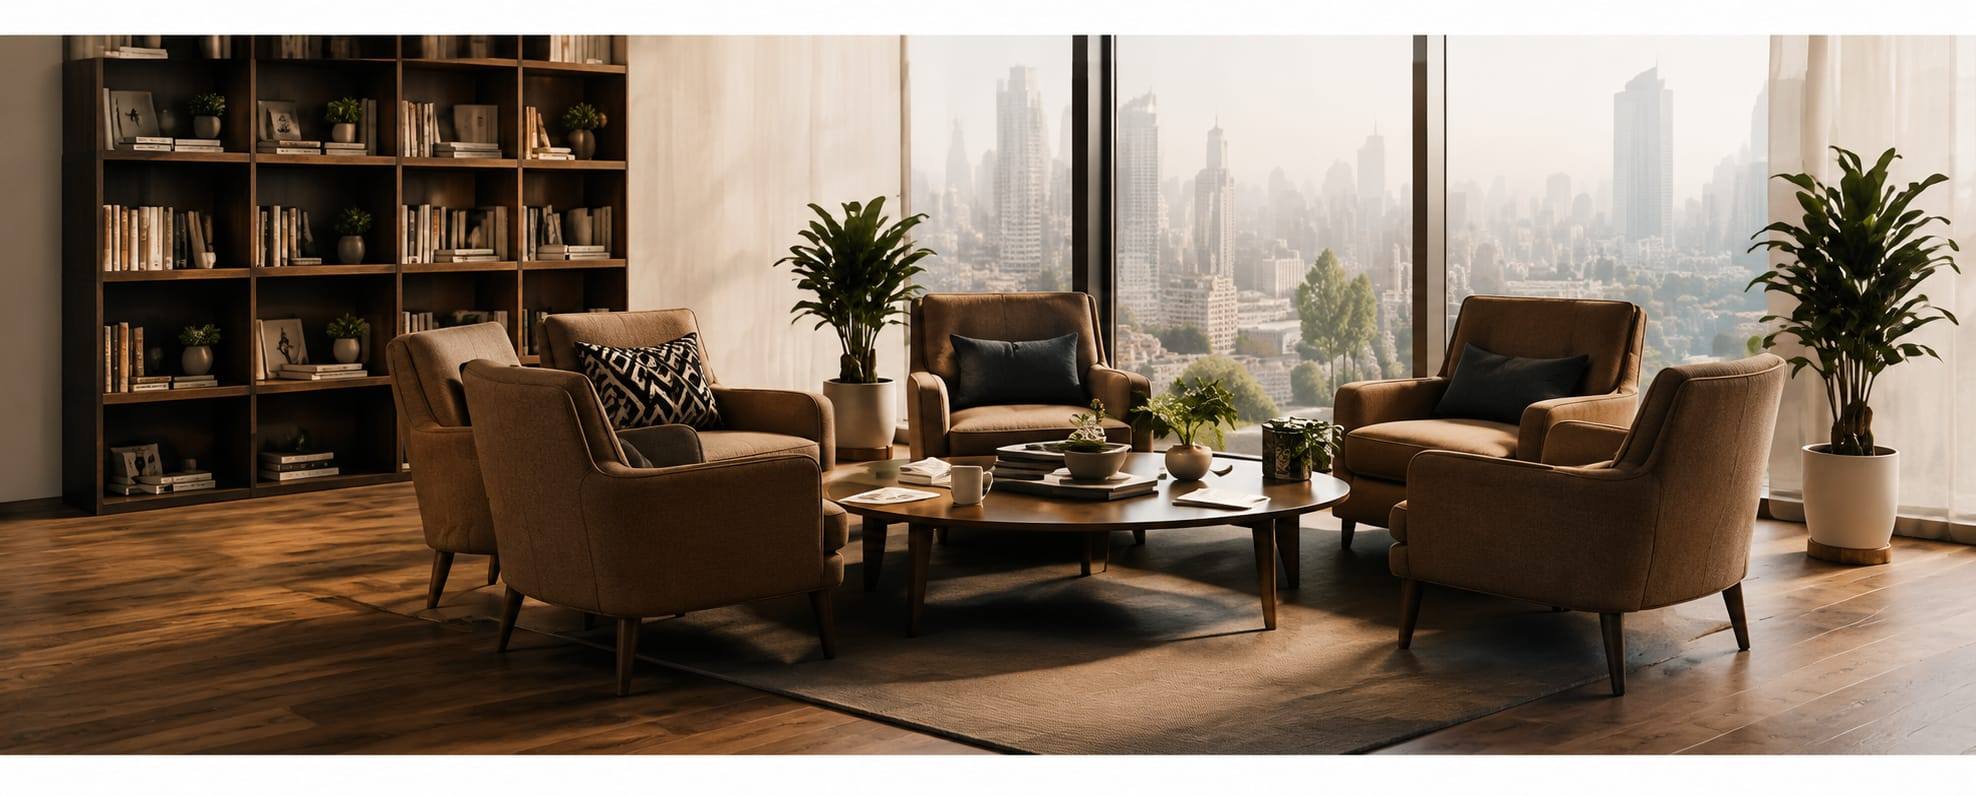
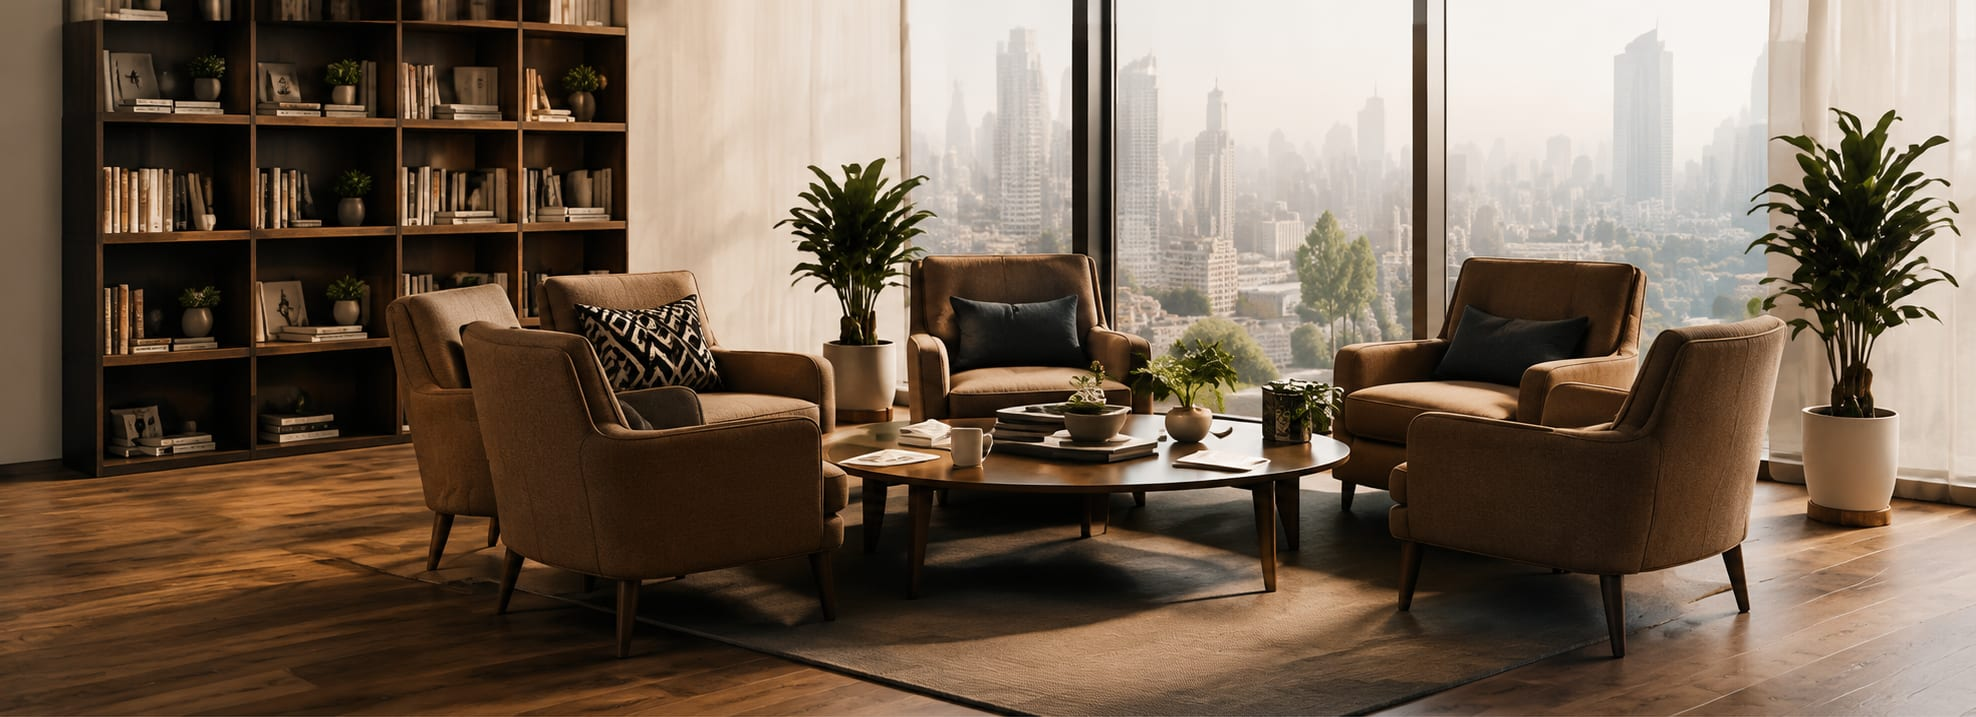
Hero full-bleed background photo, Final CTA exact-ratio lounge photo, orbit photo swap, challenges panel fixed height+scroll

diff --git a/src/components/home/Hero.tsx b/src/components/home/Hero.tsx
@@ -40,50 +40,16 @@ export function Hero() {
   };
 
   return (
-    <section className="overflow-hidden pt-12 pb-16 md:pt-16 md:pb-20 lg:pb-24">
+    <section className="relative overflow-hidden lg:min-h-[640px]">
       {/*
-        Not wrapped in the standard <Container> — the photo intentionally
-        breaks out of the normal content padding on its right edge and
-        bleeds to the outer 1440px boundary with no border/shadow/rounding
-        on that side, so it reads as part of the page rather than a
-        separate framed card (per locked reference).
+        Flex column so `order` can put the photo visually after the text on
+        mobile (a plain stacked block) while staying first in the DOM — at
+        lg+ the photo becomes an absolutely positioned section background,
+        where DOM order instead controls paint order (photo behind, text on
+        top). Fades in from its own left edge so the blend sits in the
+        visual middle of the section rather than reading as a framed card.
       */}
-      <div className="mx-auto grid max-w-[1440px] grid-cols-1 items-center gap-12 lg:grid-cols-[minmax(0,1fr)_minmax(0,1.05fr)] lg:gap-0">
-        <motion.div
-          variants={container}
-          initial="hidden"
-          animate="show"
-          className="px-6 md:px-12 lg:pl-[72px] lg:pr-12"
-        >
-          <motion.p variants={item} className="eyebrow text-gold">
-            PRIVATE LEARNING PROGRAMS
-          </motion.p>
-          <motion.h1 variants={item} className="mt-4 text-[clamp(52px,5.6vw,84px)] leading-[0.96] text-ink">
-            Where Exceptional Students Become <span className="text-gold">Extraordinary Thinkers.</span>
-          </motion.h1>
-          <motion.p variants={item} className="mt-6 max-w-xl text-lg leading-[1.7] text-ink-soft">
-            Infimind partners with ambitious families to build strong academic foundations, cultivate intellectual
-            confidence, and prepare students for success in school and beyond.
-          </motion.p>
-          <motion.div variants={item} className="mt-9 flex flex-wrap items-center gap-4">
-            <button
-              type="button"
-              onClick={openConsultation}
-              className="inline-flex min-h-[44px] items-center justify-center gap-2 rounded-btn bg-navy px-6 py-3.5 text-sm font-medium text-on-dark shadow-soft transition-shadow hover:shadow-hover"
-            >
-              Schedule a Private Consultation
-              <ArrowRight size={16} aria-hidden="true" />
-            </button>
-            <a
-              href="#programs"
-              className="inline-flex min-h-[44px] items-center justify-center gap-2 rounded-btn border border-border-strong px-6 py-3.5 text-sm font-medium text-ink transition-colors hover:border-navy"
-            >
-              Explore Programs
-              <ArrowRight size={16} aria-hidden="true" />
-            </a>
-          </motion.div>
-        </motion.div>
-
+      <div className="flex flex-col lg:block">
         <motion.div
           ref={figureRef}
           onPointerMove={handlePointerMove}
@@ -91,13 +57,13 @@ export function Hero() {
           initial={{ opacity: 0, scale: reduceMotion ? 1 : 0.97 }}
           animate={{ opacity: 1, scale: 1 }}
           transition={{ duration: 0.7, ease: EASE_OUT, delay: 0.15 }}
-          className="overflow-hidden lg:rounded-l-[18px]"
+          className="order-2 mt-10 aspect-[16/9] w-full px-6 sm:px-0 lg:absolute lg:inset-y-0 lg:right-0 lg:left-[32%] lg:order-none lg:m-0 lg:aspect-auto lg:w-auto lg:px-0"
           style={{
-            maskImage: 'linear-gradient(to right, transparent 0%, black 12%)',
-            WebkitMaskImage: 'linear-gradient(to right, transparent 0%, black 12%)',
+            maskImage: 'linear-gradient(to right, transparent 0%, black 22%)',
+            WebkitMaskImage: 'linear-gradient(to right, transparent 0%, black 22%)',
           }}
         >
-          <motion.div style={{ x: translateX, y: translateY }} className="aspect-[16/10] w-full lg:aspect-auto lg:h-full">
+          <motion.div style={{ x: translateX, y: translateY }} className="h-full w-full">
             <Photo
               filename="hero-student-study.jpg"
               alt="A student studying at a desk in natural daylight, surrounded by books"
@@ -106,6 +72,43 @@ export function Hero() {
             />
           </motion.div>
         </motion.div>
+
+        <div className="relative order-1 mx-auto w-full max-w-[1440px] pt-12 pb-16 md:pt-16 md:pb-20 lg:order-none lg:py-24">
+          <motion.div
+            variants={container}
+            initial="hidden"
+            animate="show"
+            className="max-w-xl px-6 md:px-12 lg:pl-[72px]"
+          >
+            <motion.p variants={item} className="eyebrow text-gold">
+              PRIVATE LEARNING PROGRAMS
+            </motion.p>
+            <motion.h1 variants={item} className="mt-4 text-[clamp(52px,5.6vw,84px)] leading-[0.96] text-ink">
+              Where Exceptional Students Become <span className="text-gold">Extraordinary Thinkers.</span>
+            </motion.h1>
+            <motion.p variants={item} className="mt-6 text-lg leading-[1.7] text-ink-soft">
+              Infimind partners with ambitious families to build strong academic foundations, cultivate intellectual
+              confidence, and prepare students for success in school and beyond.
+            </motion.p>
+            <motion.div variants={item} className="mt-9 flex flex-wrap items-center gap-4">
+              <button
+                type="button"
+                onClick={openConsultation}
+                className="inline-flex min-h-[44px] items-center justify-center gap-2 rounded-btn bg-navy px-6 py-3.5 text-sm font-medium text-on-dark shadow-soft transition-shadow hover:shadow-hover"
+              >
+                Schedule a Private Consultation
+                <ArrowRight size={16} aria-hidden="true" />
+              </button>
+              <a
+                href="#programs"
+                className="inline-flex min-h-[44px] items-center justify-center gap-2 rounded-btn border border-border-strong bg-paper/80 px-6 py-3.5 text-sm font-medium text-ink backdrop-blur-sm transition-colors hover:border-navy"
+              >
+                Explore Programs
+                <ArrowRight size={16} aria-hidden="true" />
+              </a>
+            </motion.div>
+          </motion.div>
+        </div>
       </div>
     </section>
   );

diff --git a/src/components/home/challenges/ChallengePanel.tsx b/src/components/home/challenges/ChallengePanel.tsx
@@ -21,23 +21,25 @@ export function ChallengePanel({ challenge }: ChallengePanelProps) {
       initial={reduceMotion ? { opacity: 0 } : { opacity: 0, x: 12 }}
       animate={{ opacity: 1, x: 0 }}
       transition={{ duration: 0.3, ease: 'easeOut' }}
-      className="overflow-hidden rounded-container border border-border bg-paper-pure"
+      // 440px matches ChallengeTabList's max-h so the two columns line up,
+      // and neither the panel nor the sidebar grows unbounded.
+      className="overflow-hidden rounded-container border border-border bg-paper-pure lg:h-[440px]"
     >
       {!hasContent ? (
-        <div className="flex min-h-[260px] flex-col items-center justify-center gap-2 p-8 text-center">
+        <div className="flex h-full min-h-[260px] flex-col items-center justify-center gap-2 p-8 text-center">
           <p className="font-display text-2xl text-ink">{challenge.label}</p>
           <p className="max-w-sm text-sm text-ink-muted">
             Content for this challenge is in progress and will be added soon.
           </p>
         </div>
       ) : (
-        <div className="grid grid-cols-1 divide-y divide-border lg:grid-cols-3 lg:divide-x lg:divide-y-0">
-          <div className="flex flex-col p-5 sm:p-6">
+        <div className="grid grid-cols-1 divide-y divide-border lg:h-full lg:grid-cols-3 lg:divide-x lg:divide-y-0">
+          <div className="flex flex-col overflow-y-auto p-5 sm:p-6">
             <p className="eyebrow text-ink-muted">The Challenge</p>
             <h3 className="mt-2.5 font-display text-xl leading-tight text-ink">{challenge.challengeTitle}</h3>
             <p className="mt-2.5 text-sm leading-relaxed text-ink-soft">{challenge.challengeDescription}</p>
             {challenge.challengeImageFilename ? (
-              <div className="mx-auto mt-5 aspect-[4/3] w-[78%] overflow-hidden rounded-lg">
+              <div className="mt-5 aspect-[4/3] w-full overflow-hidden rounded-lg">
                 <Photo
                   filename={challenge.challengeImageFilename}
                   alt={`${challenge.challengeTitle} — the challenge`}
@@ -47,7 +49,7 @@ export function ChallengePanel({ challenge }: ChallengePanelProps) {
             ) : null}
           </div>
 
-          <div className="flex flex-col bg-paper-soft/60 p-5 sm:p-6">
+          <div className="flex flex-col overflow-y-auto bg-paper-soft/60 p-5 sm:p-6">
             <p className="eyebrow text-ink-muted">Our Approach</p>
             <ul className="mt-2.5 flex flex-col gap-2.5">
               {challenge.approach.map((point) => (
@@ -62,7 +64,7 @@ export function ChallengePanel({ challenge }: ChallengePanelProps) {
             </p>
           </div>
 
-          <div className="flex flex-col p-5 sm:p-6">
+          <div className="flex flex-col overflow-y-auto p-5 sm:p-6">
             <p className="eyebrow text-ink-muted">Expected Outcome</p>
             <ul className="mt-2.5 flex flex-col gap-2.5">
               {challenge.outcomes.map((point) => (
@@ -73,7 +75,7 @@ export function ChallengePanel({ challenge }: ChallengePanelProps) {
               ))}
             </ul>
             {challenge.outcomeImageFilename ? (
-              <div className="mx-auto mt-5 aspect-[4/3] w-[78%] overflow-hidden rounded-lg">
+              <div className="mt-5 aspect-[4/3] w-full overflow-hidden rounded-lg">
                 <Photo
                   filename={challenge.outcomeImageFilename}
                   alt={`${challenge.challengeTitle} — the outcome`}

diff --git a/src/components/home/FinalCta.tsx b/src/components/home/FinalCta.tsx
@@ -3,33 +3,36 @@ import { Container } from '@/components/ui/Container';
 import { Photo } from '@/components/ui/Photo';
 import { useConsultationModal } from '@/context/ConsultationModalContext';
 
+/** Natural ratio of consultation-lounge.jpg — the photo column is sized to this exactly so it never gets cropped. */
+const LOUNGE_PHOTO_RATIO = '1976/717';
+
 export function FinalCta() {
   const { openConsultation } = useConsultationModal();
 
   return (
     <section id="consultation" className="section-spacing pt-0">
       <Container width="max">
-        <div className="grid grid-cols-1 overflow-hidden rounded-container border border-border shadow-soft lg:grid-cols-2 lg:aspect-[2.48/1]">
-          <div className="aspect-[16/9] lg:aspect-auto lg:h-full">
+        <div className="grid grid-cols-1 items-stretch overflow-hidden rounded-container border border-border shadow-soft lg:grid-cols-2">
+          <div className="w-full" style={{ aspectRatio: LOUNGE_PHOTO_RATIO }}>
             <Photo
               filename="consultation-lounge.jpg"
               alt="A calm, premium lounge setting for private consultations"
               ratioLabel="16:9"
-              className="h-full"
+              className="h-full w-full object-cover"
             />
           </div>
-          <div className="flex flex-col justify-center bg-navy px-8 py-12 sm:px-12 sm:py-16 lg:h-full">
-            <h2 className="text-[clamp(28px,2.6vw,38px)] leading-[1.12] text-on-dark">
+          <div className="flex flex-col justify-center bg-navy px-8 py-8 sm:px-10 sm:py-9 lg:px-9">
+            <h2 className="text-[clamp(20px,1.7vw,26px)] leading-[1.18] text-on-dark">
               Every Great Future Begins With the Right Guidance.
             </h2>
-            <p className="mt-4 max-w-md text-[15px] leading-relaxed text-on-dark/75">
+            <p className="mt-2.5 max-w-md text-[13px] leading-relaxed text-on-dark/75">
               Whether your child is striving for stronger school performance or preparing for the world&rsquo;s
               leading universities, every journey begins with understanding their unique potential.
             </p>
             <button
               type="button"
               onClick={openConsultation}
-              className="mt-7 inline-flex w-fit min-h-[44px] items-center justify-center gap-2 rounded-btn bg-gold px-6 py-3.5 text-sm font-medium text-navy transition-colors hover:bg-gold-dark hover:text-on-dark"
+              className="mt-4 inline-flex w-fit min-h-[40px] items-center justify-center gap-2 rounded-btn bg-gold px-5 py-2.5 text-sm font-medium text-navy transition-colors hover:bg-gold-dark hover:text-on-dark"
             >
               Schedule a Private Consultation
               <ArrowRight size={16} aria-hidden="true" />

diff --git a/src/App.smoke.test.tsx b/src/App.smoke.test.tsx
@@ -11,10 +11,10 @@ describe('App routing smoke tests', () => {
       </MemoryRouter>,
     );
     expect(
-      await screen.findByRole('heading', { name: /Extraordinary Thinkers/ }, { timeout: 5000 }),
+      await screen.findByRole('heading', { name: /Extraordinary Thinkers/ }, { timeout: 15000 }),
     ).toBeInTheDocument();
     expect(screen.getByRole('link', { name: 'Sign In' })).toBeInTheDocument();
-  });
+  }, 20000);
 
   it('renders the sign-in placeholder at /signin', async () => {
     render(

diff --git a/src/components/home/TeamOrbit.tsx b/src/components/home/TeamOrbit.tsx
@@ -25,8 +25,8 @@ export function TeamOrbit({ members }: TeamOrbitProps) {
 
       <div className="absolute inset-0 m-auto h-32 w-32 overflow-hidden rounded-full border-4 border-paper-pure shadow-hover sm:h-36 sm:w-36">
         <Photo
-          filename="personal-mentor.jpg"
-          alt="A mentor and student in conversation"
+          filename="team-orbit-center.jpg"
+          alt="A professor guiding a student"
           ratioLabel="1:1"
           className="h-full w-full"
         />

diff --git a/README.md b/README.md
@@ -60,18 +60,19 @@ A floating WhatsApp button appears on every homepage scroll position (bottom-rig
 
 ## Replacing placeholder images
 
-Real photography is in place for all nine specified slots (see `ASSET_CREDITS.md` for provenance and the "Known trade-offs" note about confirming usage rights):
+Real photography is in place for all ten specified slots (see `ASSET_CREDITS.md` for provenance and the "Known trade-offs" note about confirming usage rights):
 
 ```
-hero-student-study.jpg          (16:10, Hero) — ✅ in place
+hero-student-study.jpg          (~2:1, Hero — full-bleed section background) — ✅ in place
 school-program.jpg              (3:2, Programs) — ✅ in place
 sat-program.jpg                 (3:2, Programs) — ✅ in place
 weak-fundamentals.jpg           (4:3, Challenges panel — "The Challenge" column) — ✅ in place
 weak-fundamentals-outcome.jpg   (4:3, Challenges panel — "Expected Outcome" column) — ✅ in place
-personal-mentor.jpg             (4:3, Student Success Team card + orbit center photo) — ✅ in place
+personal-mentor.jpg             (4:3, Student Success Team card) — ✅ in place
 academic-counsellor.jpg         (4:3, Student Success Team) — ✅ in place
 wellbeing-counsellor.jpg        (4:3, Student Success Team) — ✅ in place
-consultation-lounge.jpg         (16:9 source, displayed ~2.48:1, Final CTA) — ✅ in place
+consultation-lounge.jpg         (~2.76:1, Final CTA — shown at its exact native ratio, never cropped) — ✅ in place
+team-orbit-center.jpg           (3:2, Student Success Team orbit center) — ✅ in place
 ```
 
 To add/replace a photo: save it under `public/assets/photos/` using the exact filename above — no code changes needed, `src/components/ui/Photo.tsx` picks it up automatically and falls back to a neutral placeholder if missing. Log provenance in `ASSET_CREDITS.md`.
@@ -92,8 +93,9 @@ Fonts: **Cormorant Garamond** (display/headings) and **Inter** (body/UI), loaded
 - The "Global Presence" map (`src/components/home/global-presence/`) renders real continent geography (`worldGeo.ts`, via `d3-geo`/`topojson-client`/`world-atlas`) with a uniform blue dot per active location — no connector line. Every location in `/admin` → Countries & Flags appears immediately, in real time.
 - Locations added via `/admin` default to the map's center position (`{x:50, y:50}`) since the admin form (per spec) doesn't include a lat/long picker. A dedicated map-position picker is a good Phase 2 addition.
 - **Flag emoji render as plain 2-letter codes ("GB", "AE", ...) on Windows**, in both the homepage marquee and the admin Locations table. This is a Windows/Chrome font limitation (no flag glyphs ship in the default emoji font) — real flag pictures render correctly on macOS, iOS, Android, and most Linux desktops with no code change needed. For a Windows-consistent look, use the "upload custom flag image" field in `/admin` → Countries & Flags → the location's form, which overrides the emoji with an uploaded PNG/SVG.
-- The 9 real photos (`ASSET_CREDITS.md`) were supplied by the client rather than the originally-suggested licensed stock sources — confirm usage rights before public launch.
-- The Student Success Team section's central orbit photo (`personal-mentor.jpg`) is reused from the "Personal Academic Mentor" card — there is no separate "student + teacher" photo yet. Swap it for a dedicated one if the client supplies one later.
+- The 10 real photos (`ASSET_CREDITS.md`) were supplied by the client rather than the originally-suggested licensed stock sources — confirm usage rights before public launch.
+- The Final CTA's navy content column is intentionally short (~230px at desktop) because its width/height are locked to `consultation-lounge.jpg`'s exact native aspect ratio (2.76:1) so the photo is never cropped, per the client's explicit request. Text sizing there is deliberately compact to fit.
+- The Challenges panel (`ChallengePanel.tsx`) has a fixed 440px height (matching the tab list's max-height) — any column whose content doesn't fit scrolls internally rather than growing the panel.
 - Published sample testimonials and two location story quotes are visible on the live homepage right now (client request, for design preview) — they are clearly labelled in `/admin` as `Sample preview — replace before launch` but read as ordinary testimonials to a public visitor. Replace or unpublish before launch.
 - The consultation form and WhatsApp button have no backend beyond `localStorage` — enquiries must be checked manually in `/admin` until a real notification integration exists.
 

diff --git a/ASSET_CREDITS.md b/ASSET_CREDITS.md
@@ -10,7 +10,7 @@ All eight photos were supplied directly by the client (`home page pictures (2).z
 
 | Filename | Source | License | Date added |
 |---|---|---|---|
-| hero-student-study.jpg | Supplied by client | Client-owned/licensed — verify before public launch | 2026-07-10 |
+| hero-student-study.jpg | Supplied by client (`home page photos 12.zip`, "updated hero panel.png") — replaces the 2026-07-10 version | Client-owned/licensed — verify before public launch | 2026-07-11 |
 | school-program.jpg | Supplied by client | Client-owned/licensed — verify before public launch | 2026-07-10 |
 | sat-program.jpg | Supplied by client | Client-owned/licensed — verify before public launch | 2026-07-10 |
 | weak-fundamentals.jpg | Supplied by client (`home page photos 11.zip`, "weak fundamental sad.png") | Client-owned/licensed — verify before public launch | 2026-07-11 |
@@ -18,7 +18,8 @@ All eight photos were supplied directly by the client (`home page pictures (2).z
 | personal-mentor.jpg | Supplied by client | Client-owned/licensed — verify before public launch | 2026-07-10 |
 | academic-counsellor.jpg | Supplied by client | Client-owned/licensed — verify before public launch | 2026-07-10 |
 | wellbeing-counsellor.jpg | Supplied by client | Client-owned/licensed — verify before public launch | 2026-07-10 |
-| consultation-lounge.jpg | Supplied by client (`home page photos 11.zip`, "lounge photo.png") — replaces the 2026-07-10 version | Client-owned/licensed — verify before public launch | 2026-07-11 |
+| consultation-lounge.jpg | Supplied by client (`home page photos 12.zip`, "lounge photo.png") — replaces the 2026-07-11 version | Client-owned/licensed — verify before public launch | 2026-07-11 |
+| team-orbit-center.jpg | Supplied by client (`home page photos 12.zip`, "prof student.jpg") — center photo for the Student Success Team orbit animation | Client-owned/licensed — verify before public launch | 2026-07-11 |
 
 The original free-stock source pages in `docs/build-pack/ASSET_PLACEMENT_AND_SOURCES.md` are no longer needed for any of these files but remain as a fallback reference if a photo needs replacing again.
 
